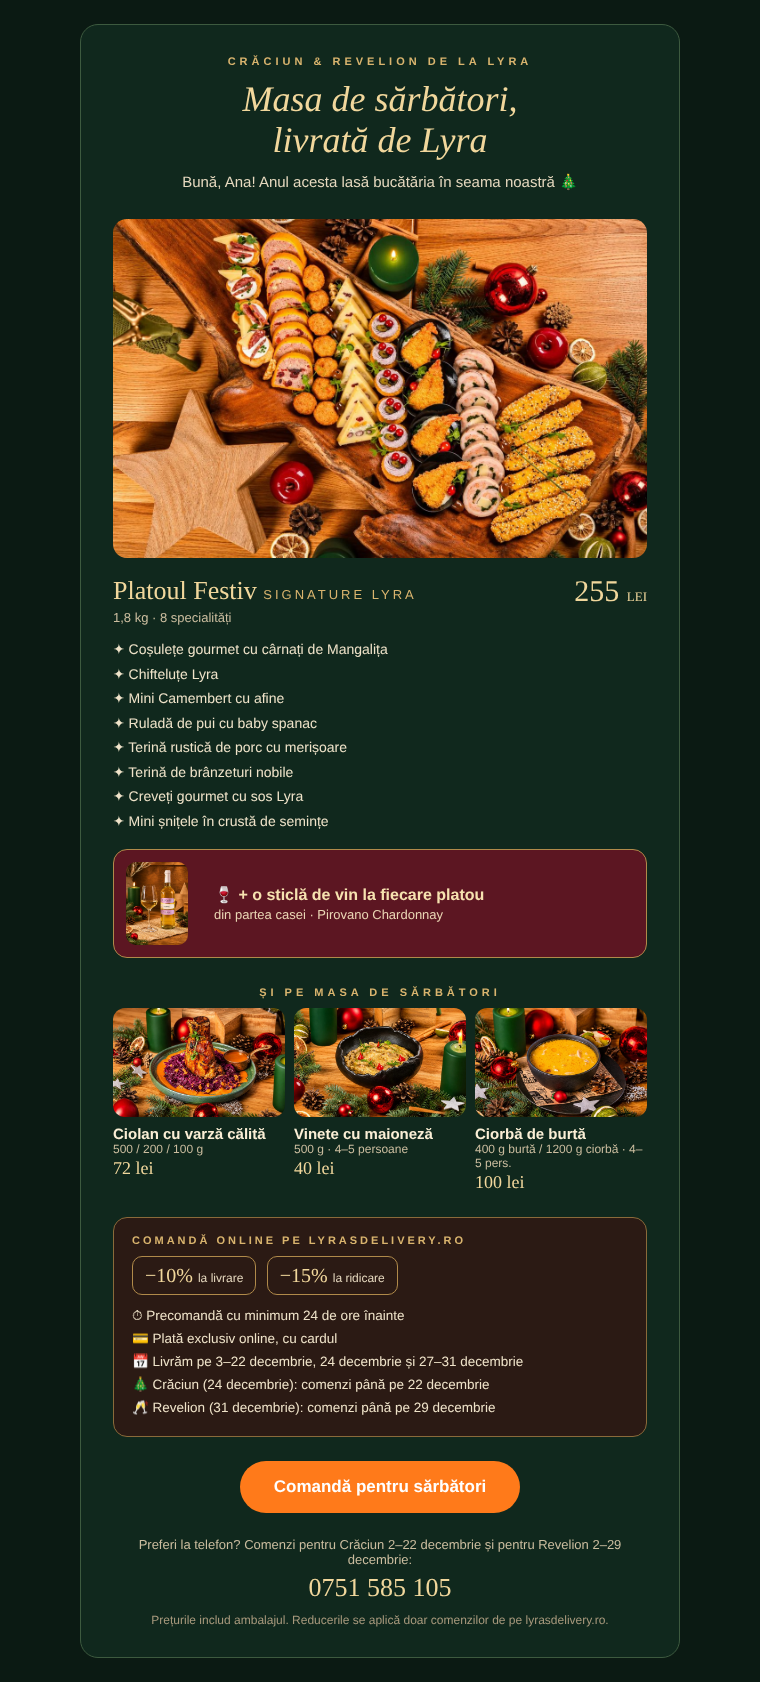
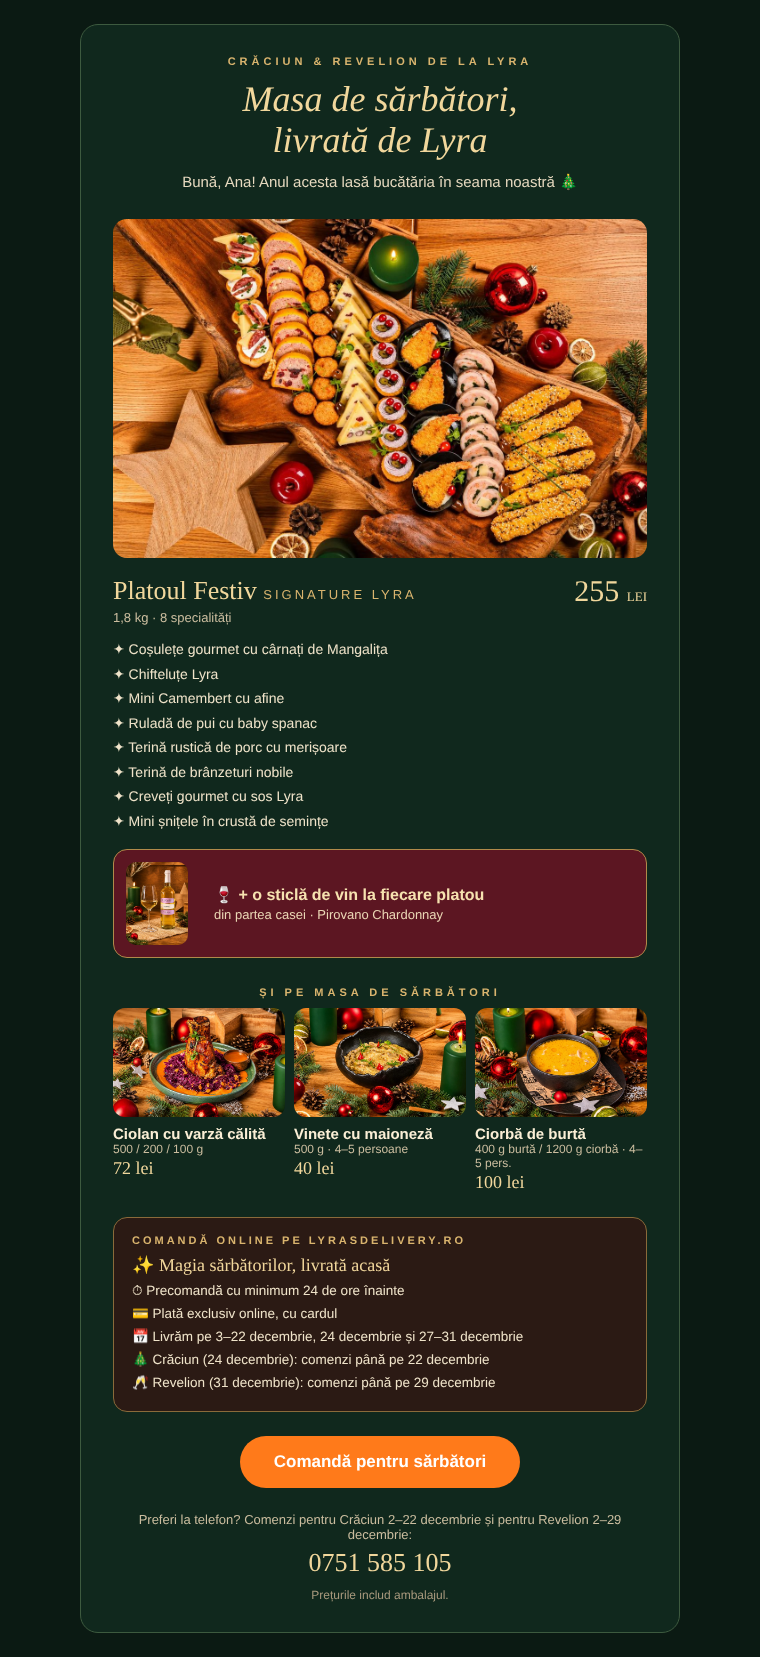
Sărbători: preț întreg (fără reduceri de livrare/ridicare sau coduri), etichete Magia sărbătorilor și Nou; email actualizat
Claude-Session: https://claude.ai/code/session_015MdjZ4MDSqW4NnE4WKTi3U

diff --git a/app/src/pages/Menu.tsx b/app/src/pages/Menu.tsx
@@ -209,7 +209,9 @@ export default function Menu({ source }: { source?: string }) {
   const fullOf = (it: Item, vi?: number) => (it.variants?.length ? it.variants[vi ?? 0].p : it.price);
   // voucherul cadou nu are reduceri (nici de livrare, nici de ridicare)
   const isGift = (id: string) => byId[id]?.kind === "gift";
-  const pctOf = (id: string) => (isGift(id) ? 0 : dsc.pct[id] || 0);
+  // cardul cadou și produsele de sărbători sunt mereu la preț întreg
+  const isHolId = (id: string) => byId[id]?.kind === "holiday";
+  const pctOf = (id: string) => (isGift(id) || isHolId(id) ? 0 : dsc.pct[id] || 0);
   // reducerea din admin se aplică doar prețului produsului (nu și extra), exact ca în baza de date
   const baseOf = (it: Item, vi?: number) => cut(fullOf(it, vi), pctOf(it.id));
   const unitOf = (l: CartLine) => {
@@ -222,8 +224,8 @@ export default function Menu({ source }: { source?: string }) {
   const sub = validCart.reduce((s, l) => s + unitOf(l) * l.qty, 0);
   const disc = code
     ? Math.round((code.category_id
-        ? validCart.filter(l => byId[l.id].category_id === code.category_id && l.promoPrice == null && !lineOff(l)).reduce((s, l) => s + unitOf(l) * l.qty, 0)
-        : validCart.filter(l => !lineOff(l) && !isGift(l.id)).reduce((s, l) => s + unitOf(l) * l.qty, 0)) * code.percent) / 100
+        ? validCart.filter(l => byId[l.id].category_id === code.category_id && l.promoPrice == null && !lineOff(l) && !isHolId(l.id)).reduce((s, l) => s + unitOf(l) * l.qty, 0)
+        : validCart.filter(l => !lineOff(l) && !isGift(l.id) && !isHolId(l.id)).reduce((s, l) => s + unitOf(l) * l.qty, 0)) * code.percent) / 100
     : 0;
   // cardul cadou (fizic): fără livrare gratuită, comandă minimă, puncte sau bonus pe el (ca în place_order)
   const gcSum = validCart.filter(l => isGift(l.id)).reduce((s, l) => s + unitOf(l) * l.qty, 0);
@@ -676,10 +678,11 @@ export default function Menu({ source }: { source?: string }) {
                 <span className="xm-kick">{L ? "KARÁCSONY & SZILVESZTER A LYRÁTÓL" : "CRĂCIUN & REVELION DE LA LYRA"}</span>
                 <h2>{L ? "Ünnepi asztal, házhoz szállítva" : "Masa de sărbători, livrată de Lyra"}</h2>
                 <p>{L ? `Rendelés az ünnepekre és decemberre · szállítás: december 3–22., 24. és 27–31.` : `Comenzi pentru sărbători și pentru luna decembrie · livrăm ${holDays}`}</p>
-                <div className="xm-rules"><span>🎄 {L ? "Karácsony (24.): rendelés dec. 22-ig" : "Crăciun (24 dec.): comenzi până pe 22"}</span><span>🥂 {L ? "Szilveszter (31.): rendelés dec. 29-ig" : "Revelion (31 dec.): comenzi până pe 29"}</span><span>⏱ {L ? "Előrendelés min. 24 órával" : "Precomandă minimum 24 de ore"}</span><span>💳 {L ? "Csak online fizetés" : "Plată exclusiv online"}</span><span>−10% {L ? "szállítás" : "livrare"} · −15% {L ? "elvitel" : "ridicare"}</span></div>
+                <div className="xm-rules"><span>🎄 {L ? "Karácsony (24.): rendelés dec. 22-ig" : "Crăciun (24 dec.): comenzi până pe 22"}</span><span>🥂 {L ? "Szilveszter (31.): rendelés dec. 29-ig" : "Revelion (31 dec.): comenzi până pe 29"}</span><span>⏱ {L ? "Előrendelés min. 24 órával" : "Precomandă minimum 24 de ore"}</span><span>💳 {L ? "Csak online fizetés" : "Plată exclusiv online"}</span></div>
               </div>
               <div className="xm-rail">{holItems.map(it => <article key={it.id} className="xm-card" data-card>
                 <button className="xm-img" onClick={() => openItem(it)} aria-label={nm(it)}><img src={imgUrl(it.image)!} alt="" loading="lazy" />
+                  <span className="xm-magic">✨ {L ? "Ünnepi varázs" : "Magia sărbătorilor"}</span><span className="xm-new">{L ? "ÚJ" : "NOU"}</span>
                   {it.id === "platou-festiv" && <span className="xm-wine">🍷 {L ? "+ bor ajándékba" : "+ vin din partea casei"}</span>}</button>
                 <div className="xm-body"><button className="pc-name" onClick={() => openItem(it)}><h3>{nm(it)}</h3></button><small>{it.grams}</small>{buyRow(it)}</div>
               </article>)}</div>
@@ -767,7 +770,8 @@ export default function Menu({ source }: { source?: string }) {
                           <img src={img} alt="" loading="lazy" />
                           <span className="pc-badges">
                             {pctOf(it.id) > 0 && <span className="b b-off"><Icon name="tag" size={12} />−{pctOf(it.id)}%</span>}
-                            {it.kind === "holiday" && <span className="b b-new">{L ? "Előrendelés 24h" : "Precomandă 24 h"}</span>}
+                            {it.kind === "holiday" && <span className="b b-magic">✨ {L ? "Ünnepi varázs" : "Magia sărbătorilor"}</span>}
+                            {it.kind === "holiday" && <span className="b b-new">{L ? "Új" : "Nou"}</span>}
                             {it.id === "platou-festiv" && <span className="b b-hot">🍷 {L ? "+ bor ajándék" : "+ vin cadou"}</span>}
                             {it.tags.includes("new") && <span className="b b-new">{L ? "Új" : "Nou"}</span>}
                             {it.hot && <span className="b b-hot"><Icon name="flame" size={12} fill />{t.hot}</span>}

diff --git a/docs/email-sarbatori.html b/docs/email-sarbatori.html
@@ -16,7 +16,7 @@
 </head>
 <body style="margin:0;padding:0;background:#0b1a13;">
 <!-- textul care apare lângă subiect în inbox -->
-<div style="display:none;max-height:0;overflow:hidden;opacity:0;color:#0b1a13;">Platoul Festiv cu vin din partea casei, ciolan, vinete și ciorbă de burtă · −10% livrare, −15% ridicare pe lyrasdelivery.ro</div>
+<div style="display:none;max-height:0;overflow:hidden;opacity:0;color:#0b1a13;">Platoul Festiv cu vin din partea casei, ciolan, vinete și ciorbă de burtă · comandă pe lyrasdelivery.ro</div>
 
 <table role="presentation" width="100%" cellpadding="0" cellspacing="0" border="0" style="background:#0b1a13;">
 <tr><td align="center" style="padding:24px 10px;">
@@ -101,10 +101,7 @@
     <table role="presentation" width="100%" cellpadding="0" cellspacing="0" border="0" style="background:#2b1a14;border:1px solid #8a6a3a;border-radius:14px;">
       <tr><td style="padding:16px 18px;">
         <div style="font-size:11px;letter-spacing:3px;color:#d9b46e;font-weight:bold;">COMANDĂ ONLINE PE LYRASDELIVERY.RO</div>
-        <div style="padding-top:10px;">
-          <span style="display:inline-block;margin:0 6px 6px 0;padding:7px 12px;border:1px solid #b08a4a;border-radius:10px;font-family:Georgia,serif;font-size:20px;color:#f1d79c;">−10% <span style="font-family:Arial,sans-serif;font-size:12px;color:#e6d9bf;">la livrare</span></span>
-          <span style="display:inline-block;margin:0 6px 6px 0;padding:7px 12px;border:1px solid #b08a4a;border-radius:10px;font-family:Georgia,serif;font-size:20px;color:#f1d79c;">−15% <span style="font-family:Arial,sans-serif;font-size:12px;color:#e6d9bf;">la ridicare</span></span>
-        </div>
+        <div style="padding-top:8px;font-family:Georgia,serif;font-size:18px;color:#f1d79c;">✨ Magia sărbătorilor, livrată acasă</div>
         <div style="font-size:13.5px;line-height:1.7;color:#efe3c9;padding-top:4px;">
           ⏱ Precomandă cu minimum 24 de ore înainte<br>
           💳 Plată exclusiv online, cu cardul<br>
@@ -125,7 +122,7 @@
   <tr><td align="center" class="pad" style="padding:18px 32px 30px;">
     <div style="font-size:13px;color:#cbbd9f;">Preferi la telefon? Comenzi pentru Crăciun 2–22 decembrie și pentru Revelion 2–29 decembrie:</div>
     <a href="tel:0751585105" style="display:inline-block;margin-top:6px;font-family:Georgia,serif;font-size:26px;color:#f1d79c;text-decoration:none;">0751 585 105</a>
-    <div style="font-size:12px;color:#a8997d;padding-top:10px;">Prețurile includ ambalajul. Reducerile se aplică doar comenzilor de pe lyrasdelivery.ro.</div>
+    <div style="font-size:12px;color:#a8997d;padding-top:10px;">Prețurile includ ambalajul.</div>
   </td></tr>
 
 </table>

diff --git a/app/src/styles.css b/app/src/styles.css
@@ -1827,3 +1827,8 @@ body::before{content:"";position:fixed;top:0;left:0;right:0;height:env(safe-area
 .mix-btns{display:grid;gap:8px;margin-top:16px}
 .mix-btns .later{padding:12px;border-radius:14px;border:1px solid var(--line-2);font-weight:700;color:var(--muted)}
 .sched-full{margin:8px 0 0;padding:10px 12px;border-radius:12px;background:rgba(31,74,53,.18);border:1px solid rgba(46,125,80,.45);font-size:14px}
+.xm-magic{position:absolute;left:8px;top:8px;padding:5px 10px;border-radius:999px;background:linear-gradient(135deg,#f6d77d,#c9963f);color:#3a2507;font-size:12px;font-weight:800;box-shadow:0 2px 10px rgba(246,215,125,.45);animation:xmGlow 2.4s ease-in-out infinite}
+.xm-new{position:absolute;right:8px;top:8px;padding:5px 9px;border-radius:8px;background:#c8102e;color:#fff;font-size:11px;font-weight:900;letter-spacing:.08em}
+.b.b-magic{background:linear-gradient(135deg,#f6d77d,#c9963f);color:#3a2507}
+@keyframes xmGlow{0%,100%{box-shadow:0 2px 10px rgba(246,215,125,.35)}50%{box-shadow:0 2px 18px rgba(246,215,125,.85)}}
+@media (prefers-reduced-motion:reduce){.xm-magic{animation:none}}
